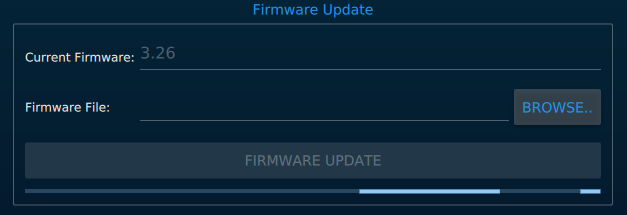
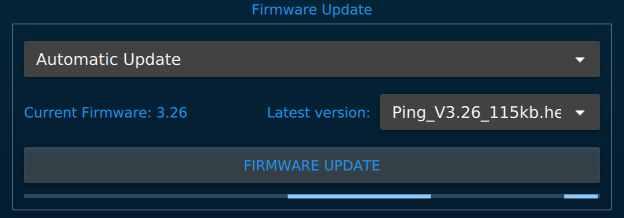
firmware-update: update doc

Changed region(s): [[0.0, 0.1116, 1.0, 0.9767], [0.3958, 0.0, 0.609, 0.0837]]

diff --git a/docs/Firmware-Update.md b/docs/Firmware-Update.md
@@ -5,13 +5,17 @@
 The Firmware Update menu allows you to update the programming on a Ping device.
 
 Steps to flash the device:
+
 1. [Connect](connection-settings) to the device
-2. Use the _Browse.._ button to select a new firmware.
+2. Open the Firmware Update menu
+3. Choose 'Automatic Update', and the baudrate that you would like to use to communicate with the device (115kbps or 9600bps, if you are not sure choose 115kbps)
 4. Click _FIRMWARE UPDATE_ to start the process.
 5. The update progress is indicated by the progress bar located at the bottom of the menu. When the update completes, the progress bar will resume it's idle animation, and the Ping device will resume data transmission.
 
 > Wait for the update process to complete before unplugging the device!
 
-![Progress bar in waiting state](images/viewer/firmware-update-waiting.gif)
+<p align="center">
+    <img src="../images/viewer/firmware-update-waiting.gif">
+</p>
 
 TODO explain bootloader process and device recovery
